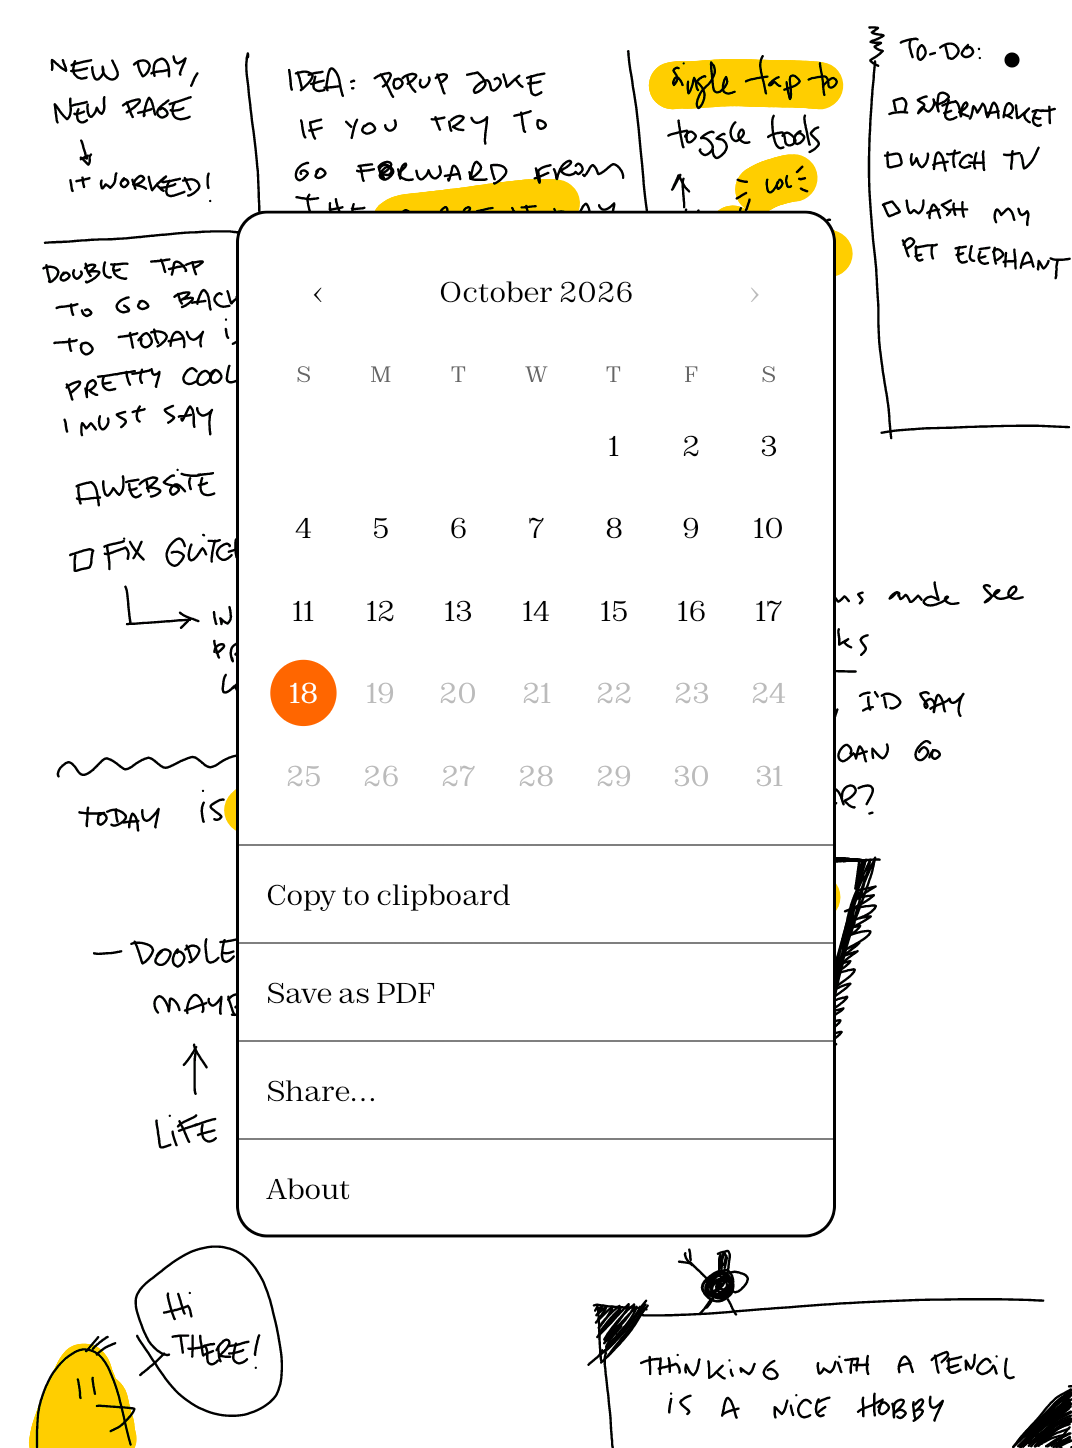
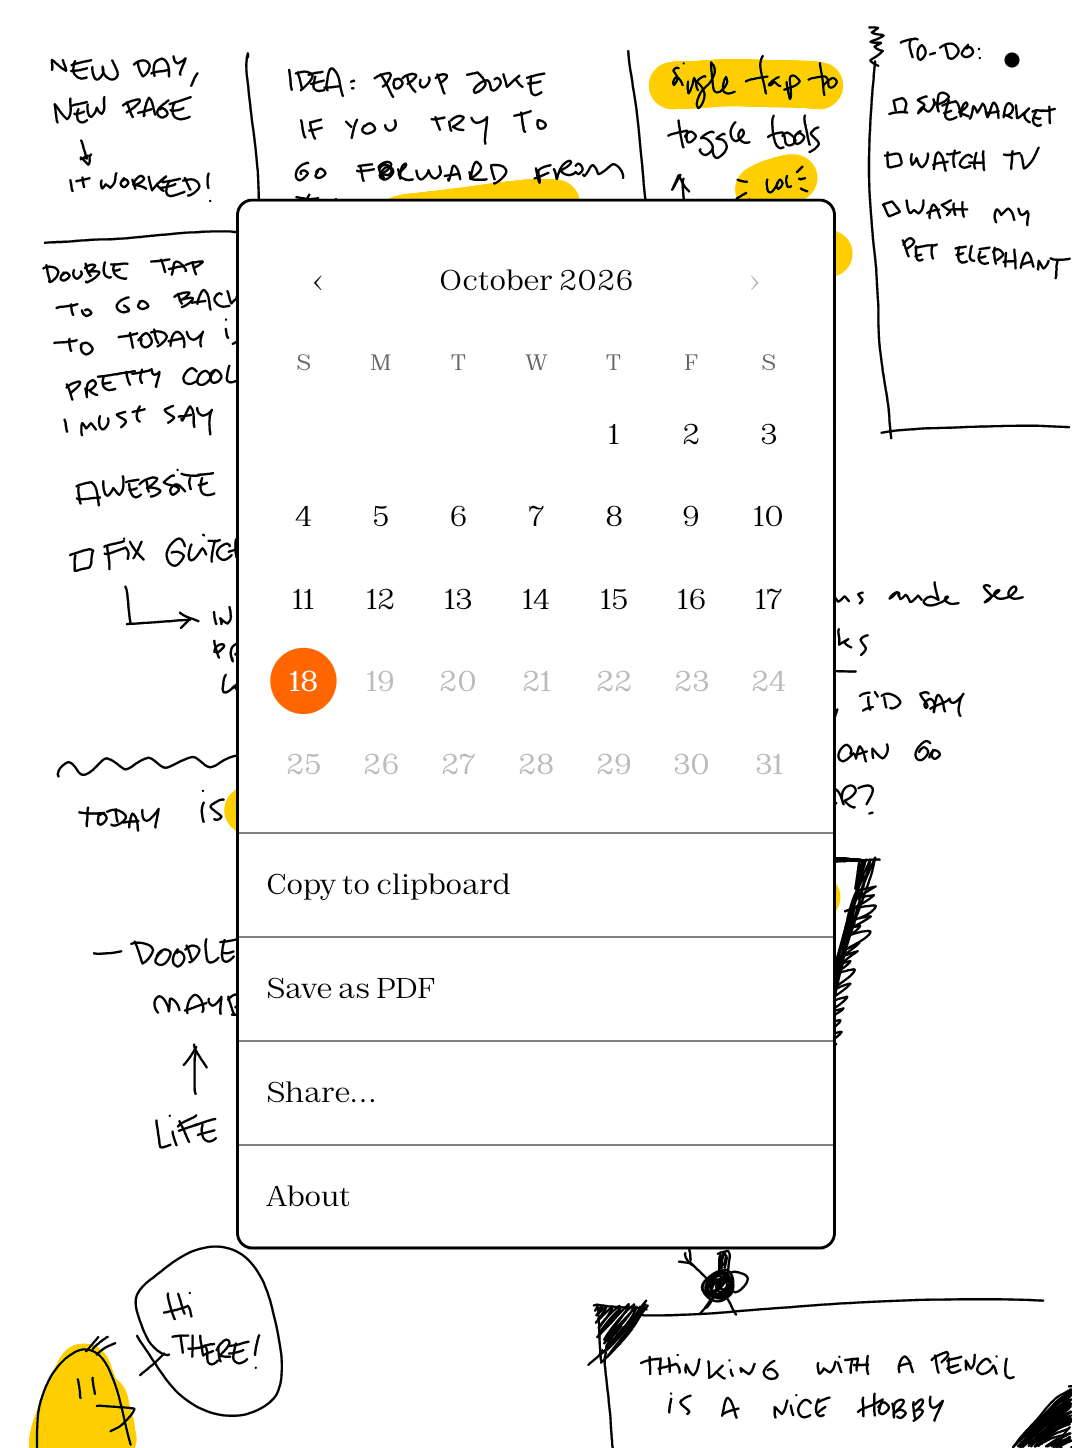
Site: no flash of unstyled text; new screenshots
- Load Zodiak from the official .woff2 files (about 23 KB each, the .otf stays as a fallback),
  preload the three faces above the fold, and use font-display: block instead of swap.
- Retake the menu (taller rows), About (0.1.1 release version line) and past day (19 Aug) screenshots.

diff --git a/docs/index.html b/docs/index.html
@@ -8,56 +8,58 @@
   <meta name="description"
     content="undia is a one-page-a-day notebook for Boox e-ink tablets. One page per day, a fixed pen, no eraser, no undo.">
   <link rel="icon" href="assets/icon.svg" type="image/svg+xml">
-  <link rel="preload" href="assets/Zodiak-Regular.otf" as="font" type="font/otf" crossorigin>
+  <link rel="preload" href="assets/Zodiak-Regular.woff2" as="font" type="font/woff2" crossorigin>
+  <link rel="preload" href="assets/Zodiak-Bold.woff2" as="font" type="font/woff2" crossorigin>
+  <link rel="preload" href="assets/Zodiak-Italic.woff2" as="font" type="font/woff2" crossorigin>
   <style>
     @font-face {
       font-family: "Zodiak";
-      src: url("assets/Zodiak-Light.otf") format("opentype");
+      src: url("assets/Zodiak-Light.woff2") format("woff2"), url("assets/Zodiak-Light.otf") format("opentype");
       font-weight: 300;
       font-style: normal;
-      font-display: swap;
+      font-display: block; /* no flash of the fallback font: the text waits for Zodiak, which is preloaded */
     }
 
     @font-face {
       font-family: "Zodiak";
-      src: url("assets/Zodiak-LightItalic.otf") format("opentype");
+      src: url("assets/Zodiak-LightItalic.woff2") format("woff2"), url("assets/Zodiak-LightItalic.otf") format("opentype");
       font-weight: 300;
       font-style: italic;
-      font-display: swap;
+      font-display: block; /* no flash of the fallback font: the text waits for Zodiak, which is preloaded */
     }
 
     @font-face {
       font-family: "Zodiak";
-      src: url("assets/Zodiak-Regular.otf") format("opentype");
+      src: url("assets/Zodiak-Regular.woff2") format("woff2"), url("assets/Zodiak-Regular.otf") format("opentype");
       font-weight: 400;
       font-style: normal;
-      font-display: swap;
+      font-display: block; /* no flash of the fallback font: the text waits for Zodiak, which is preloaded */
     }
 
     @font-face {
       font-family: "Zodiak";
-      src: url("assets/Zodiak-Italic.otf") format("opentype");
+      src: url("assets/Zodiak-Italic.woff2") format("woff2"), url("assets/Zodiak-Italic.otf") format("opentype");
       font-weight: 400;
       font-style: italic;
-      font-display: swap;
+      font-display: block; /* no flash of the fallback font: the text waits for Zodiak, which is preloaded */
     }
 
     @font-face {
       font-family: "Zodiak";
-      src: url("assets/Zodiak-Bold.otf") format("opentype");
+      src: url("assets/Zodiak-Bold.woff2") format("woff2"), url("assets/Zodiak-Bold.otf") format("opentype");
       font-weight: 700;
       font-style: normal;
-      font-display: swap;
+      font-display: block; /* no flash of the fallback font: the text waits for Zodiak, which is preloaded */
     }
 
     /* Without this, italic text at weight 700 (the headings' <em>) is the regular italic with a
        synthetic bold smeared on top, which is not the real Bold Italic. */
     @font-face {
       font-family: "Zodiak";
-      src: url("assets/Zodiak-BoldItalic.otf") format("opentype");
+      src: url("assets/Zodiak-BoldItalic.woff2") format("woff2"), url("assets/Zodiak-BoldItalic.otf") format("opentype");
       font-weight: 700;
       font-style: italic;
-      font-display: swap;
+      font-display: block; /* no flash of the fallback font: the text waits for Zodiak, which is preloaded */
     }
 
     :root {
